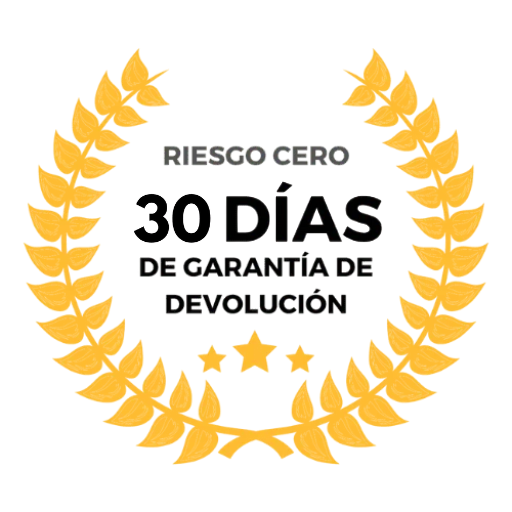
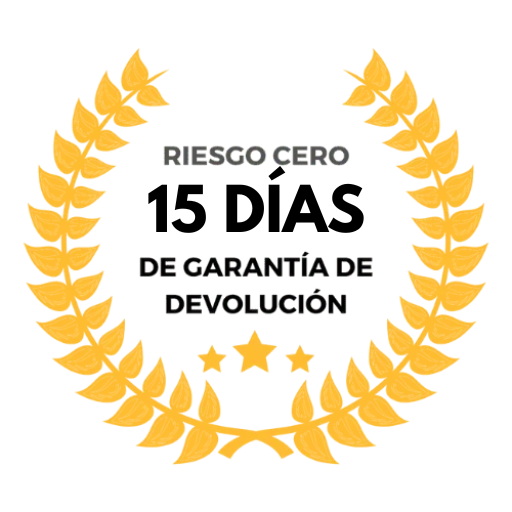
changes

Changed region(s): [[0.4375, 0.3125, 0.75, 0.5], [0.25, 0.3438, 0.4375, 0.5]]

diff --git a/src/ui/financial-app/home-page/pricing-offer/pricing-offer-en.tsx b/src/ui/financial-app/home-page/pricing-offer/pricing-offer-en.tsx
@@ -34,12 +34,15 @@ export const PricingOfferSectionEn = ({
         <h3 className="text-2xl font-bold mb-6 text-center">
           TrackMySpend - Complete Financial Control System
         </h3>
-        
+
         <div className="flex flex-col md:flex-row gap-8 mb-8">
           <div className="flex-1">
             <div className="bg-gray-100 rounded-lg p-4 mb-6 text-center">
-              <p className="text-sm text-gray-600">Image Coming Soon</p>
-              <p className="text-xs text-gray-500">Software Interface Preview</p>
+              <img
+                src="/images/vslgif2.gif"
+                alt="TrackMySpend Preview"
+                className="rounded-lg w-full"
+              />
             </div>
           </div>
           <div className="flex-1">
@@ -93,7 +96,8 @@ export const PricingOfferSectionEn = ({
           <li className="flex">
             <CheckCircleIcon className="w-6 h-6 text-green-500 mr-2" />
             <div className="flex-1">
-              Psychology module: Understand your spending emotions and satisfaction levels
+              Psychology module: Understand your spending emotions and
+              satisfaction levels
             </div>
           </li>
           <li className="flex">
@@ -110,9 +114,7 @@ export const PricingOfferSectionEn = ({
           </li>
           <li className="flex">
             <CheckCircleIcon className="w-6 h-6 text-green-500 mr-2" />
-            <div className="flex-1">
-              Lifetime app updates and new features
-            </div>
+            <div className="flex-1">Lifetime app updates and new features</div>
           </li>
         </ul>
       </div>
@@ -127,7 +129,7 @@ export const PricingOfferSectionEn = ({
           <span className="line-through text-red-600">Value: $29 USD</span>{" "}
           <span className="text-green-600 font-bold">Free</span>
         </p>
-        
+
         <div className="flex flex-col md:flex-row gap-8 items-center">
           <div className="md:w-1/3">
             <img
@@ -138,12 +140,16 @@ export const PricingOfferSectionEn = ({
           </div>
           <div className="md:w-2/3">
             <p className="text-lg mb-4">
-              Discover how to develop a solid financial mindset to achieve your economic goals. This ebook will guide you through the process of transforming your relationship with money.
+              Discover how to develop a solid financial mindset to achieve your
+              economic goals. This ebook will guide you through the process of
+              transforming your relationship with money.
             </p>
             <ul className="space-y-2">
               <li className="flex">
                 <CheckCircleIcon className="w-5 h-5 text-green-500 mr-2" />
-                <div className="flex-1">Learn to set clear and achievable financial goals</div>
+                <div className="flex-1">
+                  Learn to set clear and achievable financial goals
+                </div>
               </li>
               <li className="flex">
                 <CheckCircleIcon className="w-5 h-5 text-green-500 mr-2" />
@@ -151,7 +157,9 @@ export const PricingOfferSectionEn = ({
               </li>
               <li className="flex">
                 <CheckCircleIcon className="w-5 h-5 text-green-500 mr-2" />
-                <div className="flex-1">Overcome mental blocks that prevent you from prospering</div>
+                <div className="flex-1">
+                  Overcome mental blocks that prevent you from prospering
+                </div>
               </li>
             </ul>
           </div>
@@ -162,13 +170,15 @@ export const PricingOfferSectionEn = ({
       <div className="mb-12 p-6 bg-white rounded-xl shadow-sm border-2 border-dashed border-green-200">
         <div className="flex items-center justify-center mb-4">
           <GiftIcon className="w-8 h-8 text-green-500 mr-2" />
-          <h3 className="text-xl font-bold">Gift #3: 7 Key Habits to Improve Your Personal Finances</h3>
+          <h3 className="text-xl font-bold">
+            Gift #3: 7 Key Habits to Improve Your Personal Finances
+          </h3>
         </div>
         <p className="text-center mb-6 text-gray-600">
           <span className="line-through text-red-600">Value: $29 USD</span>{" "}
           <span className="text-green-600 font-bold">Free</span>
         </p>
-        
+
         <div className="flex flex-col md:flex-row gap-8 items-center">
           <div className="md:w-1/3">
             <img
@@ -179,16 +189,21 @@ export const PricingOfferSectionEn = ({
           </div>
           <div className="md:w-2/3">
             <p className="text-lg mb-4">
-              Learn the fundamental habits that will transform your relationship with money and help you achieve financial freedom.
+              Learn the fundamental habits that will transform your relationship
+              with money and help you achieve financial freedom.
             </p>
             <ul className="space-y-2">
               <li className="flex">
                 <CheckCircleIcon className="w-5 h-5 text-green-500 mr-2" />
-                <div className="flex-1">Master the art of effective budgeting</div>
+                <div className="flex-1">
+                  Master the art of effective budgeting
+                </div>
               </li>
               <li className="flex">
                 <CheckCircleIcon className="w-5 h-5 text-green-500 mr-2" />
-                <div className="flex-1">Implement smart investment strategies</div>
+                <div className="flex-1">
+                  Implement smart investment strategies
+                </div>
               </li>
               <li className="flex">
                 <CheckCircleIcon className="w-5 h-5 text-green-500 mr-2" />
@@ -203,13 +218,15 @@ export const PricingOfferSectionEn = ({
       <div className="mb-12 p-6 bg-white rounded-xl shadow-sm border-2 border-dashed border-green-200">
         <div className="flex items-center justify-center mb-4">
           <GiftIcon className="w-8 h-8 text-green-500 mr-2" />
-          <h3 className="text-xl font-bold">Gift #4: 21 Ideas to Make Extra Money from Home</h3>
+          <h3 className="text-xl font-bold">
+            Gift #4: 21 Ideas to Make Extra Money from Home
+          </h3>
         </div>
         <p className="text-center mb-6 text-gray-600">
           <span className="line-through text-red-600">Value: $29 USD</span>{" "}
           <span className="text-green-600 font-bold">Free</span>
         </p>
-        
+
         <div className="flex flex-col md:flex-row gap-8 items-center">
           <div className="md:w-1/3">
             <img
@@ -220,7 +237,8 @@ export const PricingOfferSectionEn = ({
           </div>
           <div className="md:w-2/3">
             <p className="text-lg mb-4">
-              Explore various opportunities to generate additional income from the comfort of your home, regardless of your experience level.
+              Explore various opportunities to generate additional income from
+              the comfort of your home, regardless of your experience level.
             </p>
             <ul className="space-y-2">
               <li className="flex">
@@ -229,11 +247,15 @@ export const PricingOfferSectionEn = ({
               </li>
               <li className="flex">
                 <CheckCircleIcon className="w-5 h-5 text-green-500 mr-2" />
-                <div className="flex-1">Learn about profitable online businesses</div>
+                <div className="flex-1">
+                  Learn about profitable online businesses
+                </div>
               </li>
               <li className="flex">
                 <CheckCircleIcon className="w-5 h-5 text-green-500 mr-2" />
-                <div className="flex-1">Implement effective monetization strategies</div>
+                <div className="flex-1">
+                  Implement effective monetization strategies
+                </div>
               </li>
             </ul>
           </div>

diff --git a/src/ui/financial-app/home-page/guarantee/guarantee-en.tsx b/src/ui/financial-app/home-page/guarantee/guarantee-en.tsx
@@ -18,7 +18,7 @@ export const GuaranteeSectionEn = () => {
         <span className="font-bold">
           will transform the way you manage money
         </span>
-        . That's why we guarantee that if, within 30 days, you don’t see the
+        . That's why we guarantee that if, within 15 days, you don’t see the
         value you expected, we will refund{" "}
         <span className="font-bold">every penny</span>, no questions asked and
         no unnecessary procedures.

diff --git a/src/ui/financial-app/home-page/guarantee/guarantee-es.tsx b/src/ui/financial-app/home-page/guarantee/guarantee-es.tsx
@@ -18,7 +18,7 @@ export const GuaranteeSectionEs = () => {
         <span className="font-bold">
           transformará tu manera de manejar el dinero
         </span>
-        . Por eso, garantizamos que si en 30 días no ves el valor que esperabas,
+        . Por eso, garantizamos que si en 15 días no ves el valor que esperabas,
         te devolveremos <span className="font-bold">cada centavo</span>, sin
         preguntas ni trámites innecesarios.
       </p>
